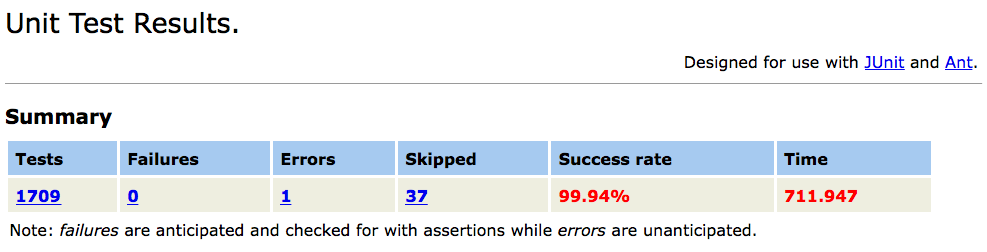
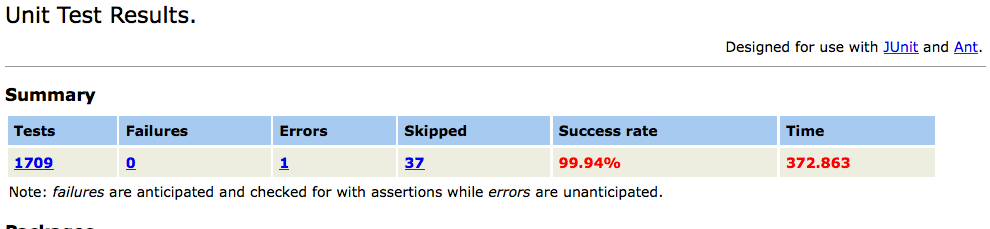
Fixes #24: Test DyCo4J with all options on an application.

diff --git a/logging/src/main/java/dyco4j/logging/Logger.java b/logging/src/main/java/dyco4j/logging/Logger.java
@@ -40,7 +40,7 @@ public final class Logger {
     public static final String FALSE_VALUE = BOOLEAN_TYPE_TAG + "f";
     public static final String TRUE_VALUE = BOOLEAN_TYPE_TAG + "t";
     public static final String NULL_VALUE = "null";
-    public static final String UNINITIALIZED_THIS = "<uninitializedThis>";
+    public static final String UNINITIALIZED_THIS = "<uninitThis>";
     public static final String UNINITIALIZED_THIS_REP = MessageFormat.format("{0}{1}", OBJECT_TYPE_TAG,
             UNINITIALIZED_THIS);
     private static Logger logger;

diff --git a/README.md b/README.md
@@ -59,6 +59,10 @@ prefixes to identify its type.
     
 True, false, and null values will be represented as `f`, `t`, and `null`.
 
+In case of class and instance initialization methods, `o:<uninitThis>` value
+will be logged instead of the object id when logging the receiver before the
+receiver is initialized.
+
 Logging library can be configured with the following properties specified in
 _logging.properties_ file.
   - _traceFolder_ where the trace files should be written.
@@ -162,17 +166,18 @@ tools.
 3. Execute `cd build`.
 4. Make a copy of the compiled tests by executing `mv testcases orig-testcases`.
 5. Instrument the tests by executing `java -jar 
-   <path to dyco4j-entry-1.0.0-cli.jar> --in-folder orig-testcases --out-folder 
+   <path to dyco4j-entry-X.Y.Z-cli.jar> --in-folder orig-testcases --out-folder 
    testcases` with all the jars required by the tool in the same folder as 
    dyco4j-entry-1.0.0-cli.jar.
 6. Execute `cd testcases`.
 7. Place the logging classes in the class path by unpacking logging library jar
-   by executing `jar xvf <path to dyco4j-logging-1.0.0.jar>`.
+   by executing `jar xvf <path to dyco4j-logging-X.Y.Z.jar>`.
 8. Get back to the _\<root>_ folder and execute `bootstrap/bin/ant test`.  This
    will create `trace.*gz` files in _\<root>_ and in 
    _\<root>/src/etc/testcases/taskdefs/_ folders.  Here's a [snapshot]
    (https://github.com/rvprasad/DyCo4J/blob/master/misc/images/ant-tests-instrumented-summary.png)
-   of the report in which 1806 events were logged in under 3 minutes.
+   of the report in which 1,887 events in 81 files (336KB) were logged in under 
+   3 minutes.
    
 ### Tracing the Implementation (Internals)
 1. Perform steps 1-7 from _Tracing the Tests_.  If you performed step 8, then 
@@ -184,7 +189,7 @@ tools.
    implementation available under _\<root>/lib/optional_ folder.  Place one 
    path per line.  To avoid hassle, use absolute paths.
 5. Instrument the implementation by executing `java -jar 
-   <path to dyco4j-internals-1.0.0-cli.jar> --in-folder orig-classes 
+   <path to dyco4j-internals-X.Y.Z-cli.jar> --in-folder orig-classes 
    --out-folder classes --classpath-config classpath-config.txt` 
    with all the jars required by the tool in the same folder as 
    dyco4j-internals-1.0.0-cli.jar.
@@ -192,23 +197,41 @@ tools.
    will create `trace.*gz` files in _\<root>_ and in 
    _\<root>/src/etc/testcases/taskdefs/_ folders.  Here's a [snapshot]
    (https://github.com/rvprasad/DyCo4J/blob/master/misc/images/ant-impl-default-options-instrumented-summary.png)
-   of the report in which 613,187,959 events were logged in under 13 minutes.
+   of the report in which _613,017,601 events in 81 files (55MB)
+   were logged in under 7 minutes._
 
-For the performance curious souls, when all tracing options are enabled, 
-**TBD** events were logged in under **TBD** minutes. Here's a [snapshot]
-(https://github.com/rvprasad/DyCo4J/misc/images/ant-impl-all-options-instrumented-summary.png) 
-of that report.
+For the performance curious peeps, 
+ - The baseline time for building and executing all tests on ant without any 
+   instrumentation was under 3 minutes. Here's a [snapshot] 
+   (https://github.com/rvprasad/DyCo4J/misc/images/ant-vanilla-summary.png).
+ - When all tracing options were enabled, _4,848,544,012 events in 81 files 
+   (9.7GB) were logged in under 96 minutes._ Here's a [snapshot]
+   (https://github.com/rvprasad/DyCo4J/misc/images/ant-impl-all-options-instrumented-summary.png) 
+   of that report.  Interestingly, Bzip related tests contributed the largest 
+   increase to execution time (~66 minutes).
+ - When all tracing options except `--trace-array-access` were enabled 
+   _2,715,652,923 events in 80 files (3.1GB) amounting to  were logged in 
+   under 40 minutes._ Here's a [snapshot]
+   (https://github.com/rvprasad/DyCo4J/misc/images/ant-impl-all-but-no-array-access-option-instrumented-summary.png) 
+   of that report. 
+
+
+## Known Issues
+ - Due to a bug #9046671 in JDK implementations (from both Oracle and Azul 
+   Systems), exceptions raised in super constructor calls are not logged.  This
+   limitation is captured as issue 
+   [#38](https://github.com/rvprasad/DyCo4J/issues/38). It will be fixed once 
+   the JDK bug is addressed.
 
 
 ## Info for Developers
-
  - If you dive into the source of this project, then search for the strings 
-   "INFO" and "ASSUMPTION" to uncover various bits of information not captured 
-   elsewhere.
+   "INFO", "FIXME", and "ASSUMPTION" to uncover various bits of information not 
+   captured elsewhere.
  - If you want to run _instrumentation_ tests using tools other than Gradle,
    then remember to add `-ea 
-   -Dlogging.jar=../logging/build/libs/dyco4j-logging-0.9.jar` to VM options.
+   -Dlogging.jar=../logging/build/libs/dyco4j-logging-X.Y.Z.jar` to VM 
+   options.
  - If you want to add new tests, then look at the flow in _CLITest_,
    _AbstractCLITest_, and _CLIClassPathConfigTest_ to understand how to set up
-   and tear down artifacts.
-
+   and tear down artifacts.  

diff --git a/misc/README.md b/misc/README.md
@@ -1,0 +1,1 @@
+The artifacts in this folder and its descendants are meant for development purpose.  USE AT YOUR OWN RISK.
